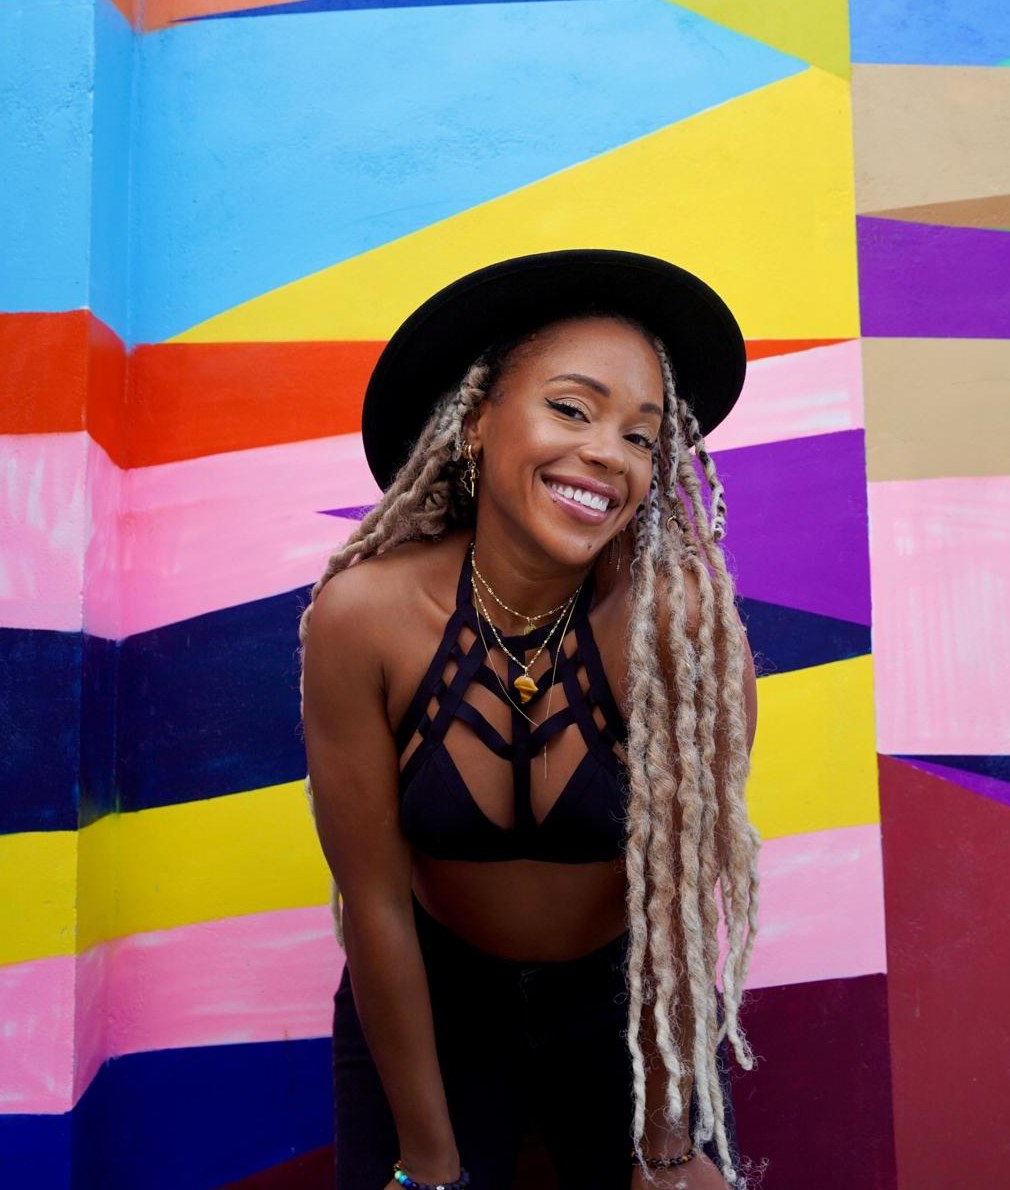
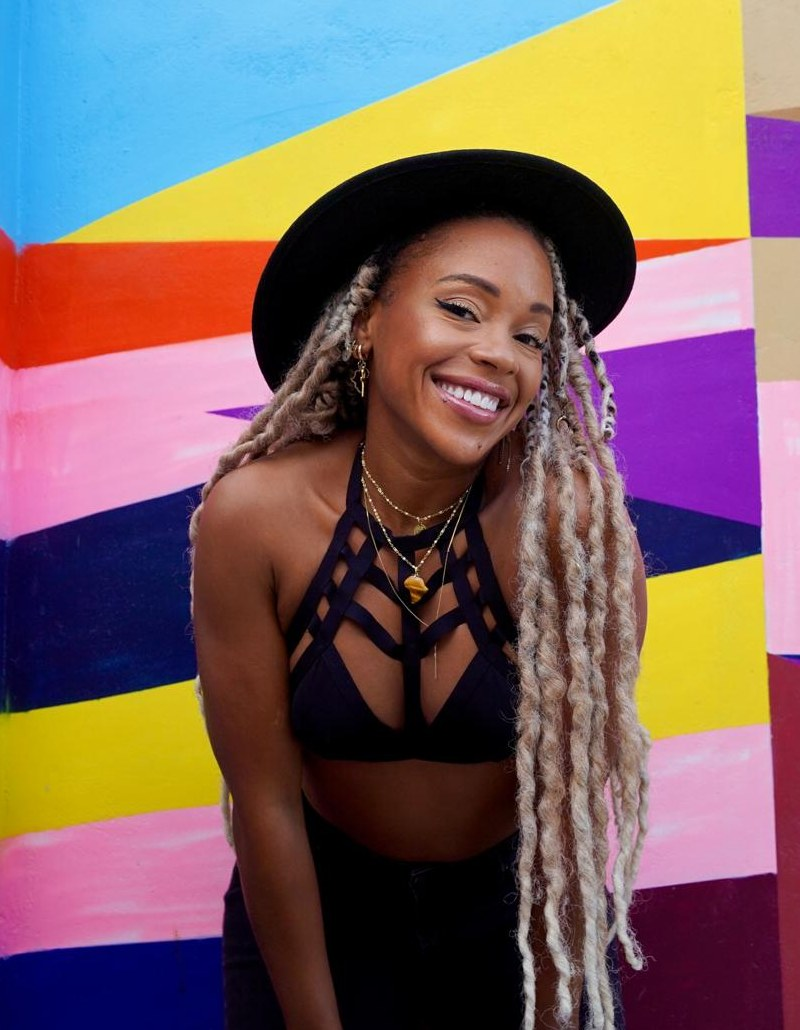
feat(hero): hero mobile — image moins filtrée, sujet mis en avant, infos descendues
Overlay allégé, dégradé sombre concentré sur le bas, titre qui descend sur
le buste, bloc CTA + stats poussé vers le bas. Soyumi : "SOYUMI" seul
(accent retiré), image recadrée serré sur le visage.

diff --git a/components/press-kit/HeroSection.tsx b/components/press-kit/HeroSection.tsx
@@ -379,18 +379,19 @@ function HeroVariantBody({
           ) : (
             <div className="h-full w-full bg-[var(--pk-bg)]" />
           )}
-          <div className="absolute inset-0 bg-black/60" />
-          <div className="absolute inset-0 bg-[radial-gradient(circle_at_20%_20%,rgb(var(--pk-accent-rgb)/0.22),transparent_28%),radial-gradient(circle_at_80%_0%,rgba(255,255,255,0.08),transparent_24%),radial-gradient(circle_at_50%_100%,rgb(var(--pk-accent-rgb)/0.12),transparent_32%)]" />
-          <div className="absolute inset-0 opacity-15 [background-image:linear-gradient(rgba(255,255,255,0.03)_1px,transparent_1px),linear-gradient(90deg,rgba(255,255,255,0.03)_1px,transparent_1px)] [background-size:34px_34px]" />
-          <div className="absolute inset-0 bg-gradient-to-t from-[var(--pk-bg)] via-black/30 to-black/20" />
+          <div className="absolute inset-0 bg-black/25" />
+          <div className="absolute inset-0 bg-[radial-gradient(circle_at_20%_20%,rgb(var(--pk-accent-rgb)/0.16),transparent_30%),radial-gradient(circle_at_80%_0%,rgba(255,255,255,0.05),transparent_24%)]" />
+          <div className="absolute inset-0 opacity-10 [background-image:linear-gradient(rgba(255,255,255,0.03)_1px,transparent_1px),linear-gradient(90deg,rgba(255,255,255,0.03)_1px,transparent_1px)] [background-size:34px_34px]" />
+          <div className="absolute inset-0 bg-gradient-to-t from-[var(--pk-bg)] via-transparent to-transparent" />
+          <div className="absolute inset-x-0 bottom-0 h-3/5 bg-gradient-to-t from-black/70 via-black/35 to-transparent" />
         </div>
 
         <div
           className={`relative mx-auto flex min-h-[90svh] max-w-7xl flex-col justify-center px-4 py-10 md:min-h-[84svh] md:px-6 md:py-12 lg:min-h-[82svh] lg:justify-start lg:pt-20 lg:pb-10 ${
-            compactMobile ? "items-center justify-end pb-14 text-center md:items-stretch md:justify-start md:pb-10 md:text-left" : ""
+            compactMobile ? "items-center justify-end pb-12 text-center md:items-stretch md:justify-start md:pb-10 md:text-left" : ""
           }`}
         >
-          <div className={`w-full max-w-3xl ${compactMobile ? "flex flex-col items-center md:block" : ""}`}>
+          <div className={`w-full max-w-3xl ${compactMobile ? "flex flex-1 flex-col items-center pt-[30vh] md:block md:flex-none md:pt-0" : ""}`}>
             {hasEyebrow && !compactMobile && (
               <div className="inline-flex items-center gap-2 rounded-full border border-white/10 bg-black/35 px-3 py-1.5 text-[10px] uppercase tracking-[0.22em] text-white/75 backdrop-blur-md md:px-4 md:py-2 md:text-[11px] md:tracking-[0.28em]">
                 <Disc3 className="h-3 w-3 text-[var(--pk-accent)] md:h-3.5 md:w-3.5" />
@@ -400,7 +401,9 @@ function HeroVariantBody({
 
             <h1 className="mt-5 text-[2.9rem] font-black uppercase leading-[0.88] tracking-tight text-white sm:text-6xl md:mt-7 md:text-7xl xl:text-[7.4rem]">
               {hero.title}
-              <span className="mt-2 block text-[var(--pk-accent)] md:mt-3">{hero.accent}</span>
+              {hero.accent && (
+                <span className="mt-2 block text-[var(--pk-accent)] md:mt-3">{hero.accent}</span>
+              )}
             </h1>
 
             {hero.genreLine && (
@@ -415,7 +418,7 @@ function HeroVariantBody({
               </p>
             )}
 
-            <div className={`mt-7 flex flex-wrap gap-2.5 md:mt-9 md:gap-3 ${compactMobile ? "justify-center md:justify-start" : ""}`}>
+            <div className={`mt-7 flex flex-wrap gap-2.5 md:mt-9 md:gap-3 ${compactMobile ? "mt-auto justify-center pt-8 md:mt-9 md:justify-start md:pt-0" : ""}`}>
               {hero.ctas.map((cta) => (
                 <a
                   key={cta.href}

diff --git a/data/clients/soyumi.ts b/data/clients/soyumi.ts
@@ -111,7 +111,7 @@ const soyumiPressKit: PressKitConfig = {
     showcase: {
       eyebrow: "Afro-Caribbean • Open format",
       title: "SOYUMI",
-      accent: "DJ",
+      accent: "",
       description:
         "Soyumi delivers Afro-Caribbean and open-format sets with global influences, driven by an instinctive energy that turns every dancefloor into a powerful, unforgettable moment.",
       layout: "showcase",
